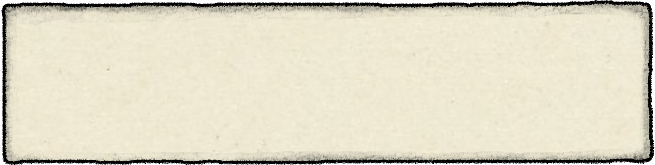
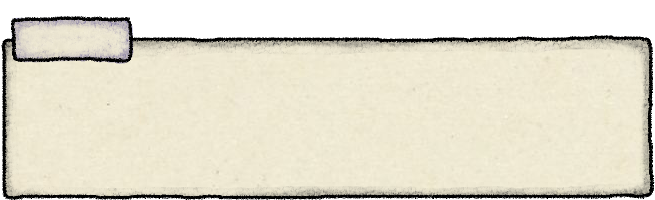
update dialogue box UI

diff --git a/main.css b/main.css
@@ -130,17 +130,19 @@ main {
   background-size: 100%;
   background-repeat: no-repeat;
   padding: 13px;
+  padding-top: 55px;
   position: relative;
   z-index: 5;
-  min-height: 170px;
+  min-height: 202px;
   box-sizing: border-box;
 }
 
 #speaker-name {
   position: absolute;
   text-align: center;
-  width: 100%;
-  bottom: 100%;
+  bottom: 143px;
+  left: 18px;
+  width: 108px;
 }
 
 #responses button {

diff --git a/README.md b/README.md
@@ -127,12 +127,12 @@ NOTE: if the "nextText" is "AUDIOGAME" (represented by the `START_PUZZLE` consta
 - [ ] start button (either just background, or background plus words and i can add discernible text with an aria label)
 
 #### dialogue screen (for each episode)
-![dialogue](./screenshots/dialogue1.png)
+![dialogue](./screenshots/dialogue.png)
 - [ ] episode background art (660x640px, could be adjusted if we shrink livestream section)
 - [x] "next" button or icon for user to click to progress (any size or shape)
 - [ ] character art (including emotion variants) (less than 660px wide and 490px tall, that's the absolute max of the space minus the dialogue space at the bottom)
-- [x] livestream overlay background? unsure if you want to draw the part on the right, it's (300 x 640px, and the inner white chat part can be whatever size, currently 270x576px)
-- [x] background for the dialogue box at the bottom - I'm concerned the speaker name won't have enough contrast
+- [x] livestream overlay background? (300 x 640px, and the inner white chat part can be whatever size, currently 270x576px)
+- [x] background for the dialogue box at the bottom 
 
 ![dialogue2](./screenshots/dialogue2.png)
 - [ ] possibly backgrounds for these response options? Tricky because they may vary in size, or we pick a max and limit them all. 
